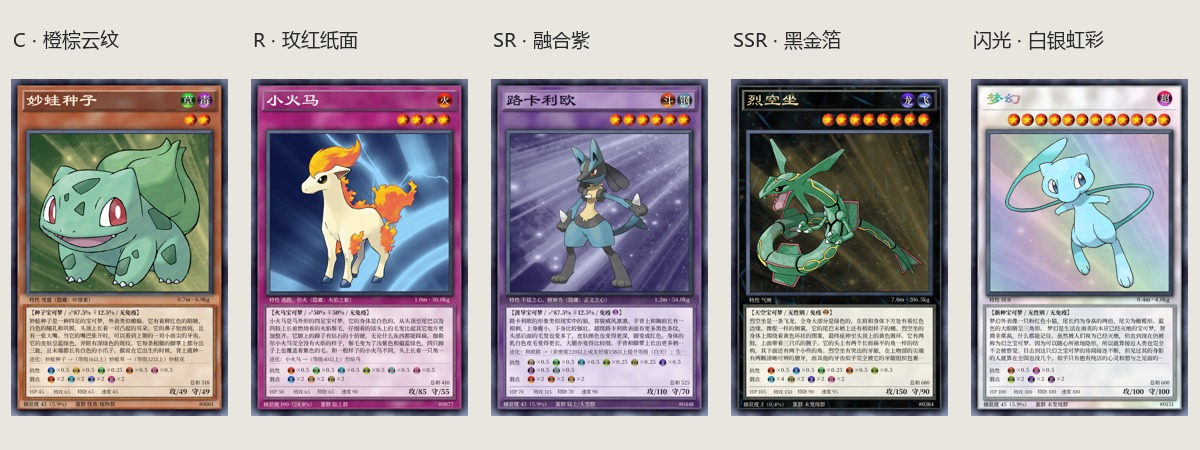
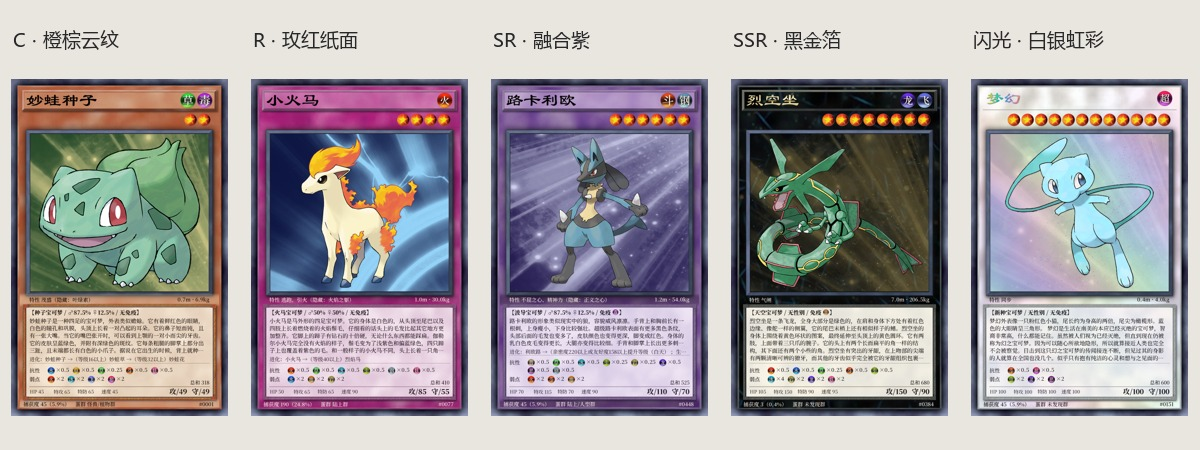
fix: use black ordinary Yu-Gi-Oh titles and top-align descriptions

Changed region(s): [[0.0, 0.1867, 0.185, 0.2489], [0.2158, 0.1867, 0.37, 0.2489], [0.4317, 0.2178, 0.4625, 0.2489]]

diff --git a/yugioh_cards.py b/yugioh_cards.py
@@ -49,8 +49,7 @@ INKS = {
     "SHINY": ((28, 27, 34), (53, 50, 65), (132, 127, 143)),
 }
 TITLE_INKS = {
-    "C": (39, 23, 14), "R": (251, 245, 250), "SR": (30, 19, 44),
-    "SSR": (255, 233, 153), "SHINY": (45, 36, 77),
+    "C": (0, 0, 0), "R": (0, 0, 0), "SR": (0, 0, 0),
 }
 METALS = {
     "C": ((94, 52, 33), (191, 126, 89), (244, 202, 162)),
@@ -323,7 +322,7 @@ def _paint_name(base, name, x, y, size, kind, *, font=None):
     if kind in {'SSR', 'SHINY'}:
         _foil_name(base, name, x, y, size, kind, font=face)
         return
-    ink = (252, 236, 216) if kind == 'C' else TITLE_INKS[kind]
+    ink = TITLE_INKS[kind]
     mask = load_card_name_mask(name, size)
     if mask is None:
         _text(ImageDraw.Draw(base), x, y, name, size, ink, font=face)
@@ -439,7 +438,8 @@ def _card(item: DrawItem, loader: Callable | None, *, profile_black_bold: bool =
     title = base.crop((67, 66, 1012, 147))
     paint_frame(base, 'title', (54, 54, 1026, 159), kind)
     if kind in {'C', 'R'}:
-        title.alpha_composite(Image.new('RGBA', title.size, (39, 21, 27, 98 if kind == 'C' else 35)))
+        tint = (237, 202, 165, 90) if kind == 'C' else (239, 209, 231, 80)
+        title.alpha_composite(Image.new('RGBA', title.size, tint))
     elif kind == 'SR':
         title.alpha_composite(Image.new('RGBA', title.size, (235, 213, 247, 112)))
     base.alpha_composite(title, (67, 66))
@@ -489,13 +489,7 @@ def _card(item: DrawItem, loader: Callable | None, *, profile_black_bold: bool =
     profile_lines, _ = _paragraph_lines(draw, profile, size=28, cap=cap, font=profile_font)
     profile_height = len(profile_lines)*37
     evolution_cap = min(2, max(0, (matchup_top-y-profile_height-12)//35)) if has_evolution else 0
-    evolution_lines, _ = _paragraph_lines(draw, '进化：'+evolution, size=26, cap=evolution_cap) if evolution_cap else ((), False)
-    block_height = ((len(profile_lines)-1)*37 + profile_font.getbbox(profile_lines[-1], anchor='lt')[3])
-    if evolution_lines:
-        block_height = profile_height + 7 + (len(evolution_lines)-1)*35 + _font(26).getbbox(evolution_lines[-1], anchor='lt')[3]
-    # Keep the paragraph and its evolution together, with balanced top/bottom
-    # breathing room even for species with only a brief description.
-    y = descriptor_bottom + max(12, (matchup_top-13-descriptor_bottom-block_height)/2)
+    # Original Chinese cards start their description just below the descriptor.
     y, _ = _paragraph(draw, profile, y, size=28, cap=cap, ink=profile_ink, font=profile_font)
     if has_evolution:
         cap = evolution_cap

diff --git a/yugioh_card_tests.py b/yugioh_card_tests.py
@@ -244,7 +244,7 @@ class YugiohCardTests(unittest.TestCase):
         self.assertEqual(len(card.call_args_list), 2)
         self.assertTrue(all(call.kwargs['profile_black_bold'] for call in card.call_args_list))
 
-    def test_truncation_on_blank_lines_centres_the_actual_description_ink(self):
+    def test_truncation_on_blank_lines_keeps_the_description_top_aligned(self):
         for enabled in (False, True):
             for blank_section in ('profile', 'evolution'):
                 with self.subTest(black_bold=enabled, section=blank_section):
@@ -272,8 +272,8 @@ class YugiohCardTests(unittest.TestCase):
                     paragraph = [r for r in records if r.value.strip()
                                  and descriptor_bottom < r.box[1] < separator]
                     self.assertTrue(any(r.value == '…' for r in paragraph))
-                    self.assertLessEqual(abs(min(r.box[1] for r in paragraph) - descriptor_bottom
-                                             - (separator - max(r.box[3] for r in paragraph))), 2)
+                    self.assertLessEqual(abs(min(r.box[1] for r in paragraph) - descriptor_bottom - 12), 1)
+                    self.assertLess(max(r.box[3] for r in paragraph), separator)
 
     def test_ssr_title_is_gold_and_shiny_title_contains_multiple_foil_colours(self):
         for shiny in (False, True):
@@ -620,9 +620,9 @@ class YugiohCardTests(unittest.TestCase):
                                      'Centre matchup rows without counting the independently placed total')
                 descriptor_bottom = max(prefix.box[3], close.box[3],
                                         max((box[3] for box in icon_boxes), default=0))
-                self.assertLessEqual(abs(profile.box[1]-descriptor_bottom -
-                                         (separator-evolution.box[3])), 2,
-                                     'Centre the actual paragraph ink, excluding its trailing line spacing')
+                self.assertLessEqual(abs(profile.box[1]-descriptor_bottom-12), 1,
+                                     'Start the description directly below the descriptor')
+                self.assertLess(evolution.box[3], separator)
                 self.assertLessEqual(close.box[2], image.width - 76)
                 if long_category:
                     self.assertIn("…", prefix.value)

diff --git a/CHANGELOG.md b/CHANGELOG.md
@@ -2,6 +2,11 @@
 
 版本按从新到旧排列。
 
+## v1.3.15（2026-11-01）
+
+- 游戏王 C、R、SR 卡名统一使用纯黑字，标题纸保留原有纹理并适当提亮；SSR 金字与闪光彩字保留。
+- 简介紧接种类栏从上往下排，进化说明跟随简介；抗性弱点栏与攻守位置保持不变。
+
 ## v1.3.14（2026-10-31）
 
 - 游戏王与 TCG 多抽卡图的奇数末行居中，三套卡面的排列保持一致。
